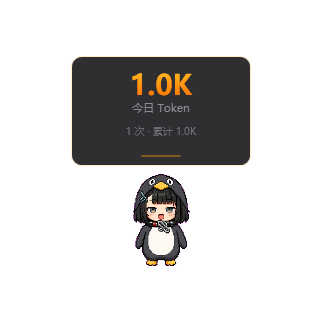
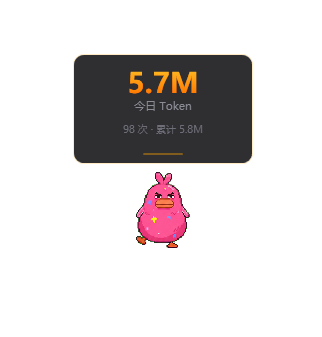
update README

Changed region(s): [[0.2174, 0.1429, 0.8075, 0.8571]]

diff --git a/README_EN.md b/README_EN.md
@@ -1,0 +1,116 @@
+# 🐾 TokenPet — Your Desktop AI Companion
+
+[![.NET](https://img.shields.io/badge/.NET-8.0-blueviolet)](https://dotnet.microsoft.com/)
+[![WPF](https://img.shields.io/badge/WPF-Desktop-orange)]()
+[![License](https://img.shields.io/badge/license-MIT-green)](./LICENSE)
+
+[中文文档](./README.md) | English
+
+> Love Codex's pet feature but don't want to switch editors? TokenPet gives you a desktop companion everywhere you go 🐱  
+> Fully compatible with the **Codex Petdex spritesheet format** — just import your Codex pet packs!
+
+## 🖼️ Demo
+
+| | |
+|:---:|:---:|
+| ![Main UI](演示图/m1.png) | ![Feature Demo](演示图/m2.png) |
+| *Desktop pet interactions* | *Token stats & settings panel* |
+
+## 🔧 How It Works
+
+TokenPet launches an HTTP proxy on `127.0.0.1`. Point your AI client's API address to the proxy port for zero-intrusion integration:
+
+```
+Client ──► http://127.0.0.1:11435/ds/v1/chat/completions
+              │
+              ▼  Strips /ds prefix, rewrites Host
+         https://api.deepseek.com/v1/chat/completions
+              │
+              ▼  Passes response through, tracks tokens in real time
+          Client ◄──  SSE streaming / Regular JSON
+```
+
+### Supported Response Formats
+- **SSE (Server-Sent Events)** — streaming output, auto-detects `0\r\n\r\n` terminator
+- **Regular JSON** — non-streaming requests, reads full response by Content-Length
+- **Chunked / Gzip** — auto dechunk and decompress before parsing token usage
+
+### Token Tracking
+- Recursively parses `usage` objects in responses, compatible with `prompt_tokens` / `completion_tokens` / `input_tokens` / `output_tokens`
+- Records by date + platform (DeepSeek / Qwen / OpenAI)
+- Customizable proxy prefix and forward target, supports tracking across multiple platforms
+
+## ✨ Features
+
+- 🎬 **9 lively animations** — Idle, run, wave, jump, fail… every pet comes with its own spritesheet
+- 🖱️ **Drag to interact** — hold and drag to move, auto-switches direction when moving left/right
+- 😴 **Smart states** — after 18s of inactivity, sits and observes; after 45s, falls asleep
+- 💬 **Status bubbles** — real-time popup bubbles above the pet showing token usage and request status
+- 🎭 **Reactive expressions** — random animations on API requests, jumps when successful, sulks on failure
+- 🔄 **Multi-pet switching** — import/export pet packs, one-click skin swap, keep as many pets as you like
+- 📋 **System tray** — right-click menu for quick settings access, no taskbar clutter
+
+## 🚀 Quick Start
+
+```bash
+# Clone
+git clone https://github.com/sugar301/TokenPet.git
+cd TokenPet\c\TokenPet
+
+# Run
+dotnet run
+
+# Publish as single-file exe
+dotnet publish -c Release -p:PublishSingleFile=true -o ./publish
+```
+
+## 🎨 Create Your Own Pet
+
+### Directory Structure
+```
+my_pet.zip
+├── pet.json
+└── spritesheet.webp
+```
+
+### pet.json
+```json
+{
+  "id": "my_pet",
+  "displayName": "My Pet",
+  "description": "A cute pixel cat",
+  "spritesheetPath": "spritesheet.webp"
+}
+```
+
+### Spritesheet Specs
+| Parameter | Value |
+|-----------|-------|
+| Size | 1536 × 1872 px |
+| Grid | 8 columns × 9 rows |
+| Frame size | 192 × 208 px |
+
+| Row | Action | Frames | FPS |
+|-----|--------|--------|-----|
+| 0 | Idle | 6 | 6 |
+| 1 | Run Right | 8 | 12 |
+| 2 | Run Left | 8 | 12 |
+| 3 | Wave | 4 | 6 |
+| 4 | Jump | 5 | 10 |
+| 5 | Fail | 8 | 10 |
+| 6 | Waiting | 6 | 2 |
+| 7 | Sprint | 6 | 15 |
+| 8 | Observe | 6 | 4 |
+
+Zip it up and import in settings — done!
+
+## 🛠️ Tech Stack
+
+- .NET 8.0 + WPF
+- SkiaSharp (WebP decoding)
+- P/Invoke system tray
+- Built-in HTTP proxy (SSE streaming + REST requests)
+
+## 📄 License
+
+MIT · Open source

diff --git a/README.md b/README.md
@@ -4,6 +4,8 @@
 [![WPF](https://img.shields.io/badge/WPF-Desktop-orange)]()
 [![License](https://img.shields.io/badge/license-MIT-green)](./LICENSE)
 
+中文 | [English](./README_EN.md)
+
 > 眼馋 Codex 的宠物功能，但不想换编辑器？TokenPet 让你在任何地方都有一只桌面小宠 🐱  
 > 完全兼容 **Codex Petdex 精灵表格式**，Codex 的宠物包直接导入就能用！
 
@@ -44,7 +46,7 @@ TokenPet 在本地 `127.0.0.1` 启动一个 HTTP 代理，你的 AI 客户端只
 - 🖱️ **拖拽互动** — 按住就能拖着走，左跑右跑自动切换方向
 - 😴 **智能状态** — 18 秒不理它就坐着审视，45 秒直接睡着
 - 💬 **状态气泡** — 宠物头顶实时弹出气泡提示，Token 消耗、请求状态一目了然
-~~- 📊 **Token 反馈** — 每次 API 调用后，根据 Token 消耗量做出不同的表情和动作反馈（少量开心跳跃、大量惊讶摊倒、超额委屈趴下）~~(这个没写，自己加吧，还能加互动啥的)
+- ~~- 📊 **Token 反馈** — 每次 API 调用后，根据 Token 消耗量做出不同的表情和动作反馈（少量开心跳跃、大量惊讶摊倒、超额委屈趴下）~~(这个没写，自己加吧，还能加互动啥的)
 - 🎭 **反应式表情** — 收到 API 请求时随机做动作，成功时跳起来，失败时委屈
 - 🔄 **多形象切换** — 导入/导出宠物包，一键换肤，想养几只养几只
 - 📋 **系统托盘** — 右键菜单快速打开设置，不占任务栏
@@ -112,4 +114,4 @@ my_pet.zip
 
 ## 📄 协议
 
-MIT · 开源免费，随便玩
+MIT · 开源